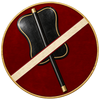
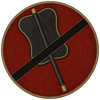
Make out-of-command badge matte and change slash to black

diff --git a/素材/状态图标/v1/README.md b/素材/状态图标/v1/README.md
@@ -3,7 +3,7 @@
 本目录提供两个独立的状态图标，均为**暗朱红实心圆章、圆外透明**，尚未接入 TTS Global Lua：
 
 - **交戦 / `engaged`**：象牙色交叉太刀。沿用用户选定的红色版本，三份图标导出和既有定位均保持 revision 4 原样。
-- **指揮外 / `out_of_command`**：根据用户上传的实物军配照片从零绘制。黑漆扇面两侧内凹收腰、上下角圆弧，带细金边；中央黑木脊贯穿扇面并延成长柄，柄端为金色柄帽。军配倾斜约 25°，去除参考照片中的全部文字，保留象牙斜杠与暗朱红圆章。
+- **指揮外 / `out_of_command`**：根据用户上传的实物军配照片从零绘制。黑漆扇面两侧内凹收腰、上下角圆弧，采用古朴的哑光旧木质感和暗金土色包边，去除光泽与反光；中央黑木脊贯穿扇面并延成长柄，柄帽同样压暗。军配倾斜约 25°，去除参考照片中的全部文字，中央斜杠改为黑色，暗朱红圆章与构图不变。
 
 两者都按 **100 × 100** 显示，分别位于标题栏左右两侧，**可以同时出现，不能作为互斥状态复用一个位置**。
 
@@ -16,9 +16,9 @@
 | `engaged` | [engaged.png](./engaged.png) | 512 × 512 | 3 / 4 / 3 / 4 px |
 | `engaged` | [engaged-100.png](./engaged-100.png) | 100 × 100 | 0 / 0 / 0 / 0 px |
 | `engaged` | [源图/engaged-1024.png](./源图/engaged-1024.png) | 1024 × 1024 | 10 / 12 / 10 / 12 px |
-| `out_of_command` | [out_of_command.png](./out_of_command.png) | 512 × 512 | 3 / 6 / 3 / 5 px |
+| `out_of_command` | [out_of_command.png](./out_of_command.png) | 512 × 512 | 3 / 3 / 3 / 3 px |
 | `out_of_command` | [out_of_command-100.png](./out_of_command-100.png) | 100 × 100 | 0 / 0 / 0 / 0 px |
-| `out_of_command` | [源图/out_of_command-1024.png](./源图/out_of_command-1024.png) | 1024 × 1024 | 10 / 13 / 10 / 14 px |
+| `out_of_command` | [源图/out_of_command-1024.png](./源图/out_of_command-1024.png) | 1024 × 1024 | 10 / 11 / 10 / 11 px |
 
 六份 PNG 均使用 RGBA 透明通道。512 px 版作为稳定的接入路径，100 px 版按建议显示尺寸导出，1024 px 版供后续调整。尺寸、alpha 外接矩形、留白和 SHA-256 均记录在 manifest 中。
 
@@ -37,7 +37,7 @@
 
 ## 历史预览 · revision 5 旧稿
 
-**以下指揮外和双状态预览均保留 revision 5 旧稿，不显示本次 revision 7 的新版图标，不能作为当前效果。** 文件原样保留；manifest 已将这些引用移入 `previous_revision_previews`。交戦素材本轮未改动，其既有预览另行保留。
+**以下指揮外和双状态预览均保留 revision 5 旧稿，不显示本次 revision 8 的新版图标，不能作为当前效果。** 文件原样保留；manifest 已将这些引用移入 `previous_revision_previews`。交戦素材本轮未改动，其既有预览另行保留。
 
 [revision 5 指揮外与双状态旧总览](./out_of_command_总览.jpg) · [交戦既有总览](./总览.jpg)
 
@@ -59,7 +59,7 @@
 
 ## 代码侧交接
 
-- 本次为 **`revision: 7`**，依据用户上传的实物照片从零重画 `out_of_command` 并去除全部文字，仍按 100 × 100 显示，左上 `(892,56)`、中心 `(942,106)`。本轮不更新预览，当前效果以独立图标为准。`engaged` 的既有 manifest 条目、三个 PNG 导出及定位保持不变；红色图标仍与 revision 2（提交 `abadd9f`）一致。
+- 本次为 **`revision: 8`**，仅将 `out_of_command` 调整为古朴哑光旧木与暗金土色包边、去除反光，并将中央斜杠改为黑色；既有实物形制与倾斜构图不变，仍按 100 × 100 显示，左上 `(892,56)`、中心 `(942,106)`。本轮不更新预览，当前效果以独立图标为准。`engaged` 的既有 manifest 条目、三个 PNG 导出及定位保持不变；红色图标仍与 revision 2（提交 `abadd9f`）一致。
 - 固定标识为 `engaged` 和 `out_of_command`，分别登记资源并独立控制显示／隐藏。两者允许同时显示，不能互斥切换同一节点或复用同一坐标。
 - 两个 `cloud_url` 均为空。仓库预览链接不代表已配置或已验证的 TTS 图片资源；需要代码侧选定图片托管、登记资源并验证加载。
 - 本稿仅交接图片、尺寸和定位。状态如何触发、保存／恢复及清除由代码侧按已确认规则处理；这里不推测交战或指挥范围的自动判定、回合重置等逻辑。
